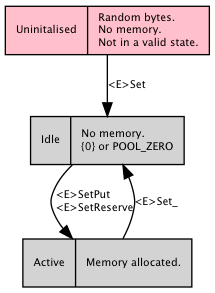
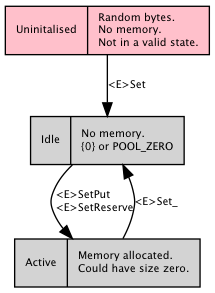
Auto-commit.

Changed region(s): [[0.0558, 0.7986, 0.9488, 0.9829]]

diff --git a/test/Pool.h b/test/Pool.h
@@ -3,6 +3,8 @@
 
  @subtitle Parameterised Stable Pool
 
+ ![Example of Pool](../web/pool.png)
+
  <tag:<T>Pool> stores unordered `<T>` in a memory pool, which must be set using
  `POOL_TYPE`. Pointers to valid items in the pool are stable, and as such,
  contiguity is not possible. However, it uses geometrically increasing
@@ -16,8 +18,6 @@
  parameters are preprocessor macros, and are all undefined at the end of the
  file for convenience. `assert.h` is included in this file; to stop the
  debug assertions, use `#define NDEBUG` before `assert.h`.
-
- ![States.](../web/states.png)
 
  @param[POOL_NAME, POOL_TYPE]
  `<T>` that satisfies `C` naming conventions when mangled and a valid tag
@@ -34,7 +34,11 @@
  <../test/PoolTest.h>. Must be defined equal to a (random) filler function,
  satisfying <typedef:<PT>Action>. Requires `POOL_TO_STRING` and not `NDEBUG`.
 
- @std C89 */
+ @std C89
+ @cf [Array](https://github.com/neil-edelman/Array)
+ @cf [List](https://github.com/neil-edelman/List)
+ @cf [Orcish](https://github.com/neil-edelman/Orcish)
+ @cf [Set](https://github.com/neil-edelman/Set) */
 
 #include <stddef.h>	/* offset_of */
 #include <stdlib.h>	/* malloc free */
@@ -121,7 +125,9 @@ struct PT_(Block) {
 };
 
 /** The pool. Zeroed data is a valid state. To instantiate explicitly, see
- <fn:<T>Pool> or initialise it with `POOL_INIT` or `{0}` (C99.) */
+ <fn:<T>Pool> or initialise it with `POOL_INIT` or `{0}` (C99.)
+
+ ![States.](../web/states.png) */
 struct T_(Pool);
 struct T_(Pool) {
 	/* Ideally, all items to go in here, but there may be smaller blocks. */
@@ -139,19 +145,19 @@ struct T_(Pool) {
 #endif /* !zero --> */
 
 
-/** Private: `container_of`. */
+/** Private: `container_of` `data`. */
 static struct PT_(Node) *PT_(data_upcast)(T *const data) {
 	return (struct PT_(Node) *)(void *)
 		((char *)data - offsetof(struct PT_(Node), data));
 }
 
-/** Private: `container_of`. */
+/** Private: `container_of` `x`. */
 static struct PT_(Node) *PT_(x_upcast)(struct PT_(X) *const x) {
 	return (struct PT_(Node) *)(void *)
 		((char *)x - offsetof(struct PT_(Node), x));
 }
 
-/** Private: block to array. */
+/** Private: `b` to array. */
 static struct PT_(Node) *PT_(block_nodes)(struct PT_(Block) *const b) {
 	return (struct PT_(Node) *)(void *)(b + 1);
 }
@@ -288,8 +294,8 @@ static void T_(Pool)(struct T_(Pool) *const pool) {
 	PT_(pool)(pool);
 }
 
-/* Find what block it's in. Used in <fn:<T>PoolRemove>.
- @order `O(log log items)` because the blocks get smaller exponentially.
+/** Find what block `node` is in `pool`. Used in <fn:<T>PoolRemove>.
+ @order At worst \O(log `items`) when there's no deletetion.
  @return Must return a value. */
 static struct PT_(Block) **PT_(find_block_addr)(struct T_(Pool) *const pool,
 	const struct PT_(Node) *const node) {
@@ -309,10 +315,10 @@ static void PT_(flag_removed)(struct PT_(Node) *const node) {
 }
 
 /** Removes `data` from `pool`.
- @param pool, data: If null, returns false.
+ @param[pool, data] If null, returns false.
  @return Success, otherwise `errno` will be set for valid input.
  @throws[EDOM] `data` is not part of `pool`.
- @order Amortised \O(1), if the pool is in steady-state, but \O(`log items`)
+ @order Amortised \O(1), if the pool is in steady-state, but \O(log `items`)
  for a small number of deleted items.
  @allow */
 static int T_(PoolRemove)(struct T_(Pool) *const pool, T *const data) {
@@ -335,9 +341,9 @@ static int T_(PoolRemove)(struct T_(Pool) *const pool, T *const data) {
 	return 1;
 }
 
-/** Removes all from `pool`, but leaves the active memory alone and frees the
- smaller blocks; if one wants to remove memory, see <fn:<T>Pool_>.
- @param pool: If null, does nothing.
+/** Removes all from `pool`. Keeps it's active state, only freeing the smaller
+ blocks. Compare <fn:<T>Pool_>.
+ @param[pool] If null, does nothing.
  @order \O(`blocks`)
  @allow */
 static void T_(PoolClear)(struct T_(Pool) *const pool) {
@@ -352,7 +358,8 @@ static void T_(PoolClear)(struct T_(Pool) *const pool) {
 }
 
 /** Pre-sizes a zeroed pool to ensure that it can hold at least `min` elements.
- @param[pool] If null, returns false;
+ Will not work unless the pool is in an empty state.
+ @param[pool] If null, returns false.
  @param[min] If zero, doesn't do anything and returns true.
  @return Success; the pool becomes active with at least `min` elements.
  @throws[EDOM] The pool is active and doesn't allow reserving.
@@ -368,11 +375,13 @@ static int T_(PoolReserve)(struct T_(Pool) *const pool, const size_t min) {
 	return PT_(reserve)(pool, min);
 }
 
-/** Gets an uninitialised new element.
- @param pool: If is null, returns null.
- @return A new, un-initialised, element, or null and {errno} may be set.
- @throws ERANGE: Tried allocating more then can fit in {size_t} objects.
- @throws {malloc} errors: {IEEE Std 1003.1-2001}.
+/** New item.
+ @param[pool] If is null, returns null.
+ @return A new element at the end, or null and `errno` will be set.
+ @throws[ERANGE] Tried allocating more then can fit in `size_t` or `malloc`
+ doesn't follow [IEEE Std 1003.1-2001
+ ](https://pubs.opengroup.org/onlinepubs/009695399/functions/malloc.html).
+ @throws[malloc]
  @order amortised O(1)
  @allow */
 static T *T_(PoolNew)(struct T_(Pool) *const pool) {
@@ -388,10 +397,10 @@ static T *T_(PoolNew)(struct T_(Pool) *const pool) {
 	return &node->data;
 }
 
-/** Iterates though {pool} and calls {action} on all the elements. There is no
+/** Iterates though `pool` and calls `action` on all the elements. There is no
  way to change the iteration order.
- @param stack, action: If null, does nothing.
- @order O({capacity} \times {action})
+ @param[pool, action] If null, does nothing.
+ @order O(`capacity` \times `action`)
  @allow */
 static void T_(PoolForEach)(struct T_(Pool) *const pool,
 	const PT_(Action) action) {
@@ -409,92 +418,72 @@ static void T_(PoolForEach)(struct T_(Pool) *const pool,
 
 #ifdef POOL_TO_STRING /* <-- print */
 
-#ifndef POOL_PRINT_THINGS /* <-- once inside translation unit */
-#define POOL_PRINT_THINGS
-
-static const char *const pool_cat_start     = "[";
-static const char *const pool_cat_end       = "]";
-static const char *const pool_cat_alter_end = "...]";
-static const char *const pool_cat_sep       = ", ";
-static const char *const pool_cat_star      = "*";
-static const char *const pool_cat_null      = "null";
-
-struct Pool_SuperCat {
-	char *print, *cursor;
-	size_t left;
-	int is_truncated;
-};
-static void pool_super_cat_init(struct Pool_SuperCat *const cat,
-	char *const print, const size_t print_size) {
-	cat->print = cat->cursor = print;
-	cat->left = print_size;
-	cat->is_truncated = 0;
-	print[0] = '\0';
-}
-static void pool_super_cat(struct Pool_SuperCat *const cat,
-	const char *const append) {
-	size_t lu_took; int took;
-	if(cat->is_truncated) return;
-	took = sprintf(cat->cursor, "%.*s", (int)cat->left, append);
-	if(took < 0)  { cat->is_truncated = -1; return; } /*implementation defined*/
-	if(took == 0) { return; }
-	if((lu_took = (size_t)took) >= cat->left)
-		cat->is_truncated = -1, lu_took = cat->left - 1;
-	cat->cursor += lu_took, cat->left -= lu_took;
-}
-#endif /* once --> */
-
 /** Can print 4 things at once before it overwrites. One must pool
- {POOL_TO_STRING} to a function implementing {<T>ToString} to get this
+ `POOL_TO_STRING` to a function implementing <typedef:<PT>ToString> to get this
  functionality.
- @return Prints {pool} in a static buffer.
+ @return Prints `pool` in a static buffer.
  @order \Theta(1); it has a 255 character limit; every element takes some of it.
  @allow */
 static const char *T_(PoolToString)(const struct T_(Pool) *const pool) {
-	static char buffer[4][256];
-	static unsigned buffer_i;
-	struct Pool_SuperCat cat;
+	static char buffers[4][256];
+	static size_t buffer_i;
+	char *const buffer = buffers[buffer_i++], *b = buffer;
+	const size_t buffers_no = sizeof buffers / sizeof *buffers,
+		buffer_size = sizeof *buffers / sizeof **buffers;
 	struct PT_(Block) *block;
-	struct PT_(Node) *n, *end;
+	struct PT_(Node) *n, *n_end;
+	const char start = '[', comma = ',', space = ' ', end = ')',
+		*const ellipsis_end = ",…]", *const null = "null",
+		*const idle = "idle";
+	const size_t ellipsis_end_len = strlen(ellipsis_end),
+		null_len = strlen(null), idle_len = strlen(idle);
+	size_t i;
 	int is_first = 1;
-	char scratch[12];
-	assert(strlen(pool_cat_alter_end) >= strlen(pool_cat_end));
-	assert(sizeof buffer > strlen(pool_cat_alter_end));
-	pool_super_cat_init(&cat, buffer[buffer_i],
-		sizeof *buffer / sizeof **buffer - strlen(pool_cat_alter_end));
-	buffer_i++, buffer_i &= 3;
-	if(!pool) {
-		pool_super_cat(&cat, pool_cat_null);
-		return cat.print;
-	}
-	pool_super_cat(&cat, pool_cat_start);
+	assert(!(buffers_no & (buffers_no - 1)) && ellipsis_end_len >= 1
+		&& buffer_size >= 1 + 11 + ellipsis_end_len + 1
+		&& buffer_size >= null_len + 1);
+	buffer_i &= buffers_no - 1;
+	/* Null array. */
+	if(!pool)
+		{ memcpy(b, null, null_len), b += null_len; goto terminate; }
+	if(!pool->largest)
+		{ memcpy(b, idle, idle_len), b += idle_len; goto terminate; }
+	/* Otherwise. */
+	*b++ = start;
 	for(block = pool->largest; block; block = block->smaller) {
-		for(n = PT_(block_nodes)(block), end = n + PT_(range)(pool, block);
-			n < end; n++) {
+		for(n = PT_(block_nodes)(block), n_end = n + PT_(range)(pool, block);
+			n < n_end; n++) {
 			if(n->x.prev) continue;
-			if(!is_first) pool_super_cat(&cat, pool_cat_sep); else is_first = 0;
-			PT_(to_string)(&n->data, &scratch),
-				scratch[sizeof scratch - 1] = '\0';
-			pool_super_cat(&cat, scratch);
-			if(cat.is_truncated) break;
+			if(!is_first) *b++ = comma, *b++ = space;
+			else is_first = 0;
+			PT_(to_string)(&n->data, (char (*)[12])b);
+			for(i = 0; *b != '\0' && i < 12; b++, i++);
+			/* No way to tell if it is going to end; this leads to having ...
+			 even if there's nothing there. */
+			if((size_t)(b - buffer)
+				> buffer_size - 2 - 11 - ellipsis_end_len - 1) goto ellipsis;
 		}
 	}
-	sprintf(cat.cursor, "%s",
-		cat.is_truncated ? pool_cat_alter_end : pool_cat_end);
-	return cat.print; /* Static buffer. */
+	*b++ = end;
+ellipsis:
+	memcpy(b, ellipsis_end, ellipsis_end_len), b += ellipsis_end_len;
+terminate:
+	*b++ = '\0';
+	assert(b <= buffer + buffer_size);
+	return buffer;
 }
 
 #endif /* print --> */
 
 #ifdef POOL_TEST /* <-- test */
-#include "../test/TestPool.h" /* Need this file if one is going to run tests. */
+#include "../test/TestPool.h" /** \include */
 #endif /* test --> */
 
 /* Prototype. */
 static void PT_(unused_coda)(void);
 /** This silences unused function warnings from the pre-processor, but allows
- optimisation, (hopefully.)
- \url{ http://stackoverflow.com/questions/43841780/silencing-unused-static-function-warnings-for-a-section-of-code } */
+ optimisation
+ <http://stackoverflow.com/questions/43841780/silencing-unused-static-function-warnings-for-a-section-of-code>. */
 static void PT_(unused_set)(void) {
 	T_(Pool_)(0);
 	T_(Pool)(0);
@@ -508,7 +497,7 @@ static void PT_(unused_set)(void) {
 #endif
 	PT_(unused_coda)();
 }
-/** {clang}'s pre-processor is not fooled if you have one function. */
+/** Some pre-processors are not fooled if you have one function. */
 static void PT_(unused_coda)(void) { PT_(unused_set)(); }
 
 
@@ -516,8 +505,8 @@ static void PT_(unused_coda)(void) { PT_(unused_set)(); }
 /* Un-define all macros. */
 #undef POOL_NAME
 #undef POOL_TYPE
-/* Undocumented; allows nestled inclusion so long as: {CAT_}, {CAT}, {PCAT},
- {PCAT_} conform, and {T} is not used. */
+/* Undocumented; allows nestled inclusion so long as: `CAT_`, _etc_ conform,
+ and `T`, _etc_ is not used. */
 #ifdef POOL_SUBTYPE /* <-- sub */
 #undef POOL_SUBTYPE
 #else /* sub --><-- !sub */
@@ -534,8 +523,4 @@ static void PT_(unused_coda)(void) { PT_(unused_set)(); }
 #endif
 #ifdef POOL_TEST
 #undef POOL_TEST
-#endif
-#ifdef POOL_NDEBUG
-#undef POOL_NDEBUG
-#undef NDEBUG
 #endif

diff --git a/src/Set.h b/src/Set.h
@@ -19,8 +19,8 @@
 
  `<E>Set` is not synchronised. Errors are returned with `errno`. The parameters
  are preprocessor macros, and are all undefined at the end of the file for
- convenience. `assert.h` is included in this file; to stop the debug
- assertions, use `#define NDEBUG` before inclusion.
+ convenience. `assert.h` is included; to stop the debug assertions, use
+ `#define NDEBUG` before inclusion.
 
  @param[SET_NAME, SET_TYPE]
  `<E>` that satisfies `C` naming conventions when mangled and a valid
@@ -57,7 +57,6 @@
 
  @std C89
  @cf [Array](https://github.com/neil-edelman/Array)
- @cf [Digraph](https://github.com/neil-edelman/Digraph)
  @cf [List](https://github.com/neil-edelman/List)
  @cf [Orcish](https://github.com/neil-edelman/Orcish)
  @cf [Pool](https://github.com/neil-edelman/Pool) */
@@ -86,12 +85,6 @@
 #endif
 #if defined(SET_TEST) && !defined(SET_TO_STRING)
 #error SET_TEST requires SET_TO_STRING.
-#endif
-/* <https://stackoverflow.com/q/44401965> */
-#ifdef SIZE_MAX
-#define SET_SIZE_MAX SIZE_MAX
-#else
-#define SET_SIZE_MAX ((size_t)(-1))
 #endif
 
 /* Generics using the preprocessor;
@@ -277,7 +270,7 @@ static int PE_(grow)(struct E_(Set) *const set, const size_t size) {
 		&& (PE_(UInt))-1 > 0);
 	/* `SIZE_MAX` min 65535 -> 5041 but typically much larger _st_ it becomes
 	 saturated while the load factor increases. */
-	if(size > SET_SIZE_MAX / 13) return 1; /* <- Saturation `1/8 * SIZE_MAX`. */
+	if(size > (size_t)-1 / 13) return 1; /* <- Saturation `1/8 * SIZE_MAX`. */
 	/* Load factor `0.693147180559945309417232121458176568 ~= 9/13`.
 	 Starting bucket number is a power of 2 in `[8, 1 << log_limit]`. */
 	if((no_buckets = size * 13 / 9) > 1u << log_limit) {
@@ -430,7 +423,7 @@ static struct E_(SetElement) *E_(SetGet)(struct E_(Set) *const set,
  @allow */
 static int E_(SetReserve)(struct E_(Set) *const set, const size_t reserve) {
 	if(!set) return 0;
-	if(reserve > SET_SIZE_MAX - set->size) return errno = ERANGE, 0;
+	if(reserve > (size_t)-1 - set->size) return errno = ERANGE, 0;
 	return PE_(grow)(set, set->size + reserve);
 }
 
@@ -586,7 +579,6 @@ static void PE_(unused_coda)(void) { PE_(unused_set)(); }
 #undef PCAT
 #undef PCAT_
 #endif /* !sub --> */
-#undef SET_SIZE_MAX
 #undef E_
 #undef PE_
 #undef SET_NAME

diff --git a/test/Orcish.c b/test/Orcish.c
@@ -13,7 +13,6 @@
 
  @std C89
  @cf [Array](https://github.com/neil-edelman/Array)
- @cf [Digraph](https://github.com/neil-edelman/Digraph)
  @cf [List](https://github.com/neil-edelman/List)
  @cf [Pool](https://github.com/neil-edelman/Pool)
  @cf [Set](https://github.com/neil-edelman/Set) */
